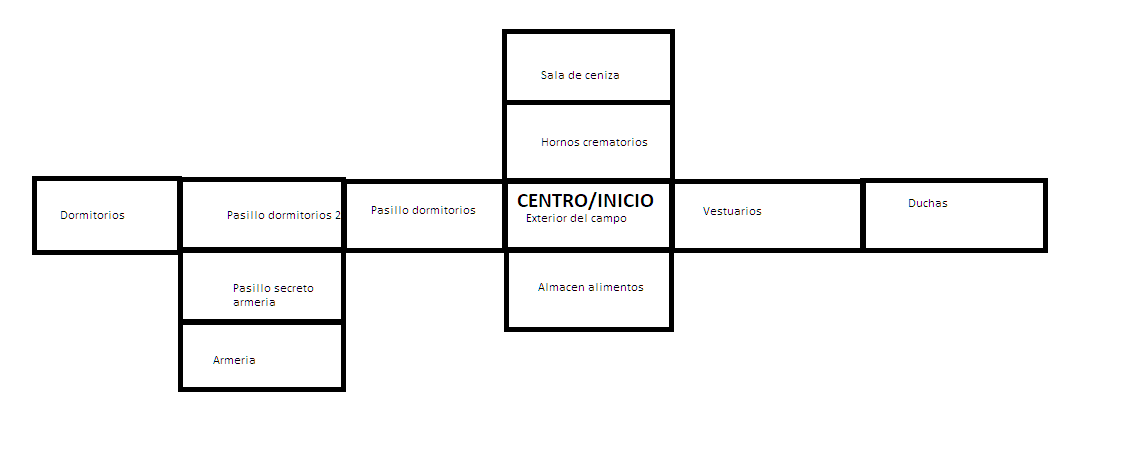
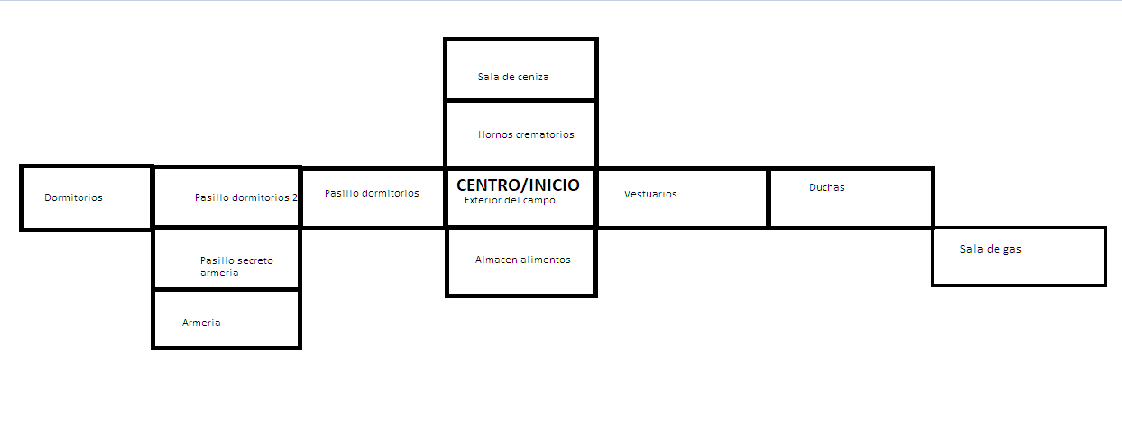
Commit04

Changed region(s): [[0.0, 0.0625, 0.9982, 0.875], [0.8111, 0.625, 0.9982, 0.6562]]

diff --git a/Room.java b/Room.java
@@ -18,6 +18,7 @@ public class Room
     public Room northExit;
     public Room southExit;
     public Room eastExit;
+    public Room southEastExit;
     public Room westExit;
 
     /**
@@ -37,9 +38,10 @@ public class Room
      * @param north The north exit.
      * @param east The east east.
      * @param south The south exit.
+     * @param southEast The southeast exit.
      * @param west The west exit.
      */
-    public void setExits(Room north, Room east, Room south, Room west) 
+    public void setExits(Room north, Room east, Room south, Room southEast, Room west) 
     {
         if(north != null)
             northExit = north;
@@ -47,8 +49,10 @@ public class Room
             eastExit = east;
         if(south != null)
             southExit = south;
+        if(southEast != null)
+            southEastExit = southEast;
         if(west != null)
-            westExit = west;
+            westExit = west;    
     }
 
     /**
